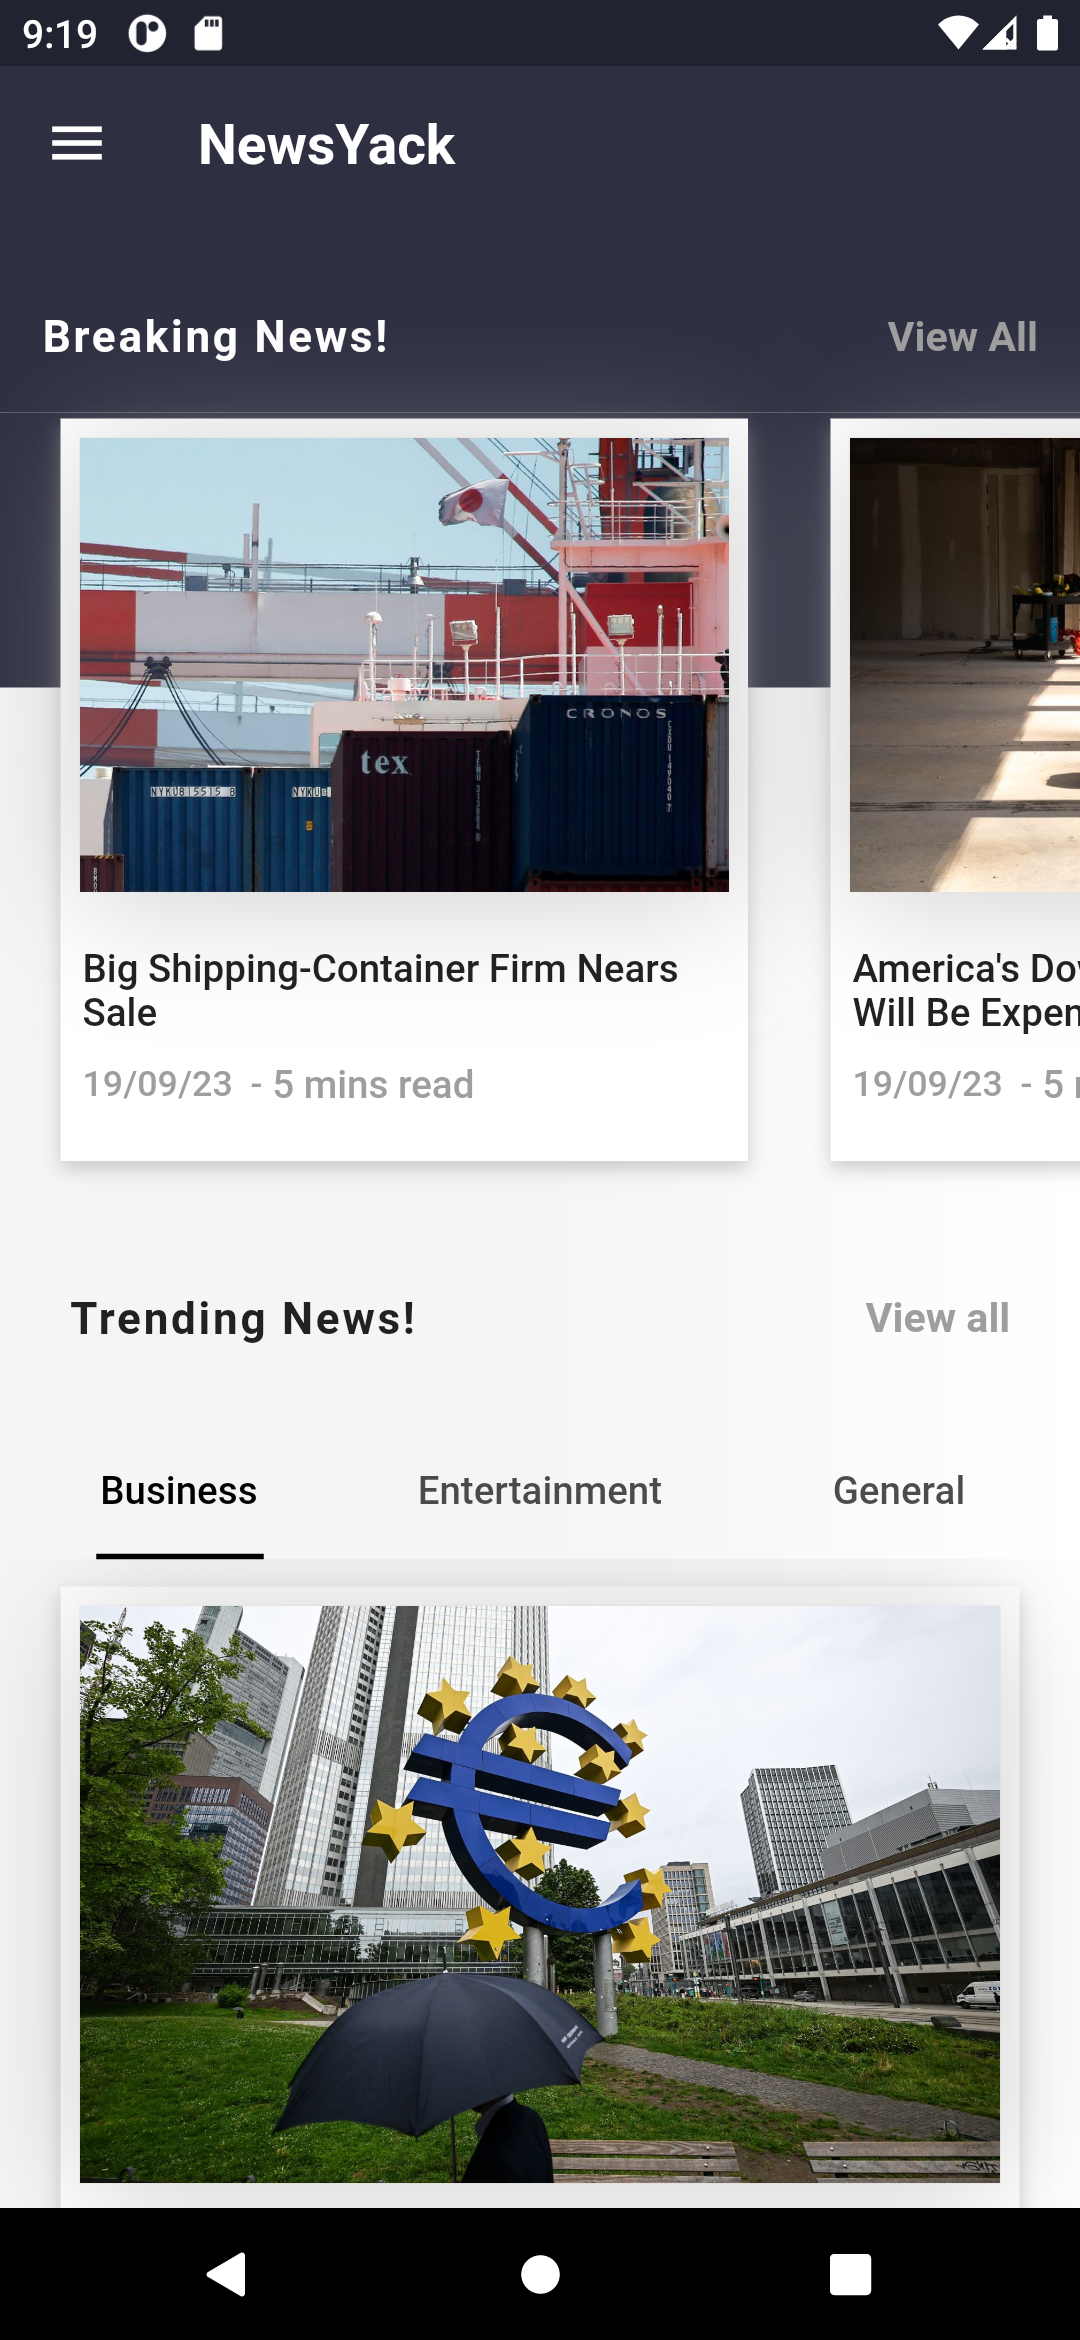
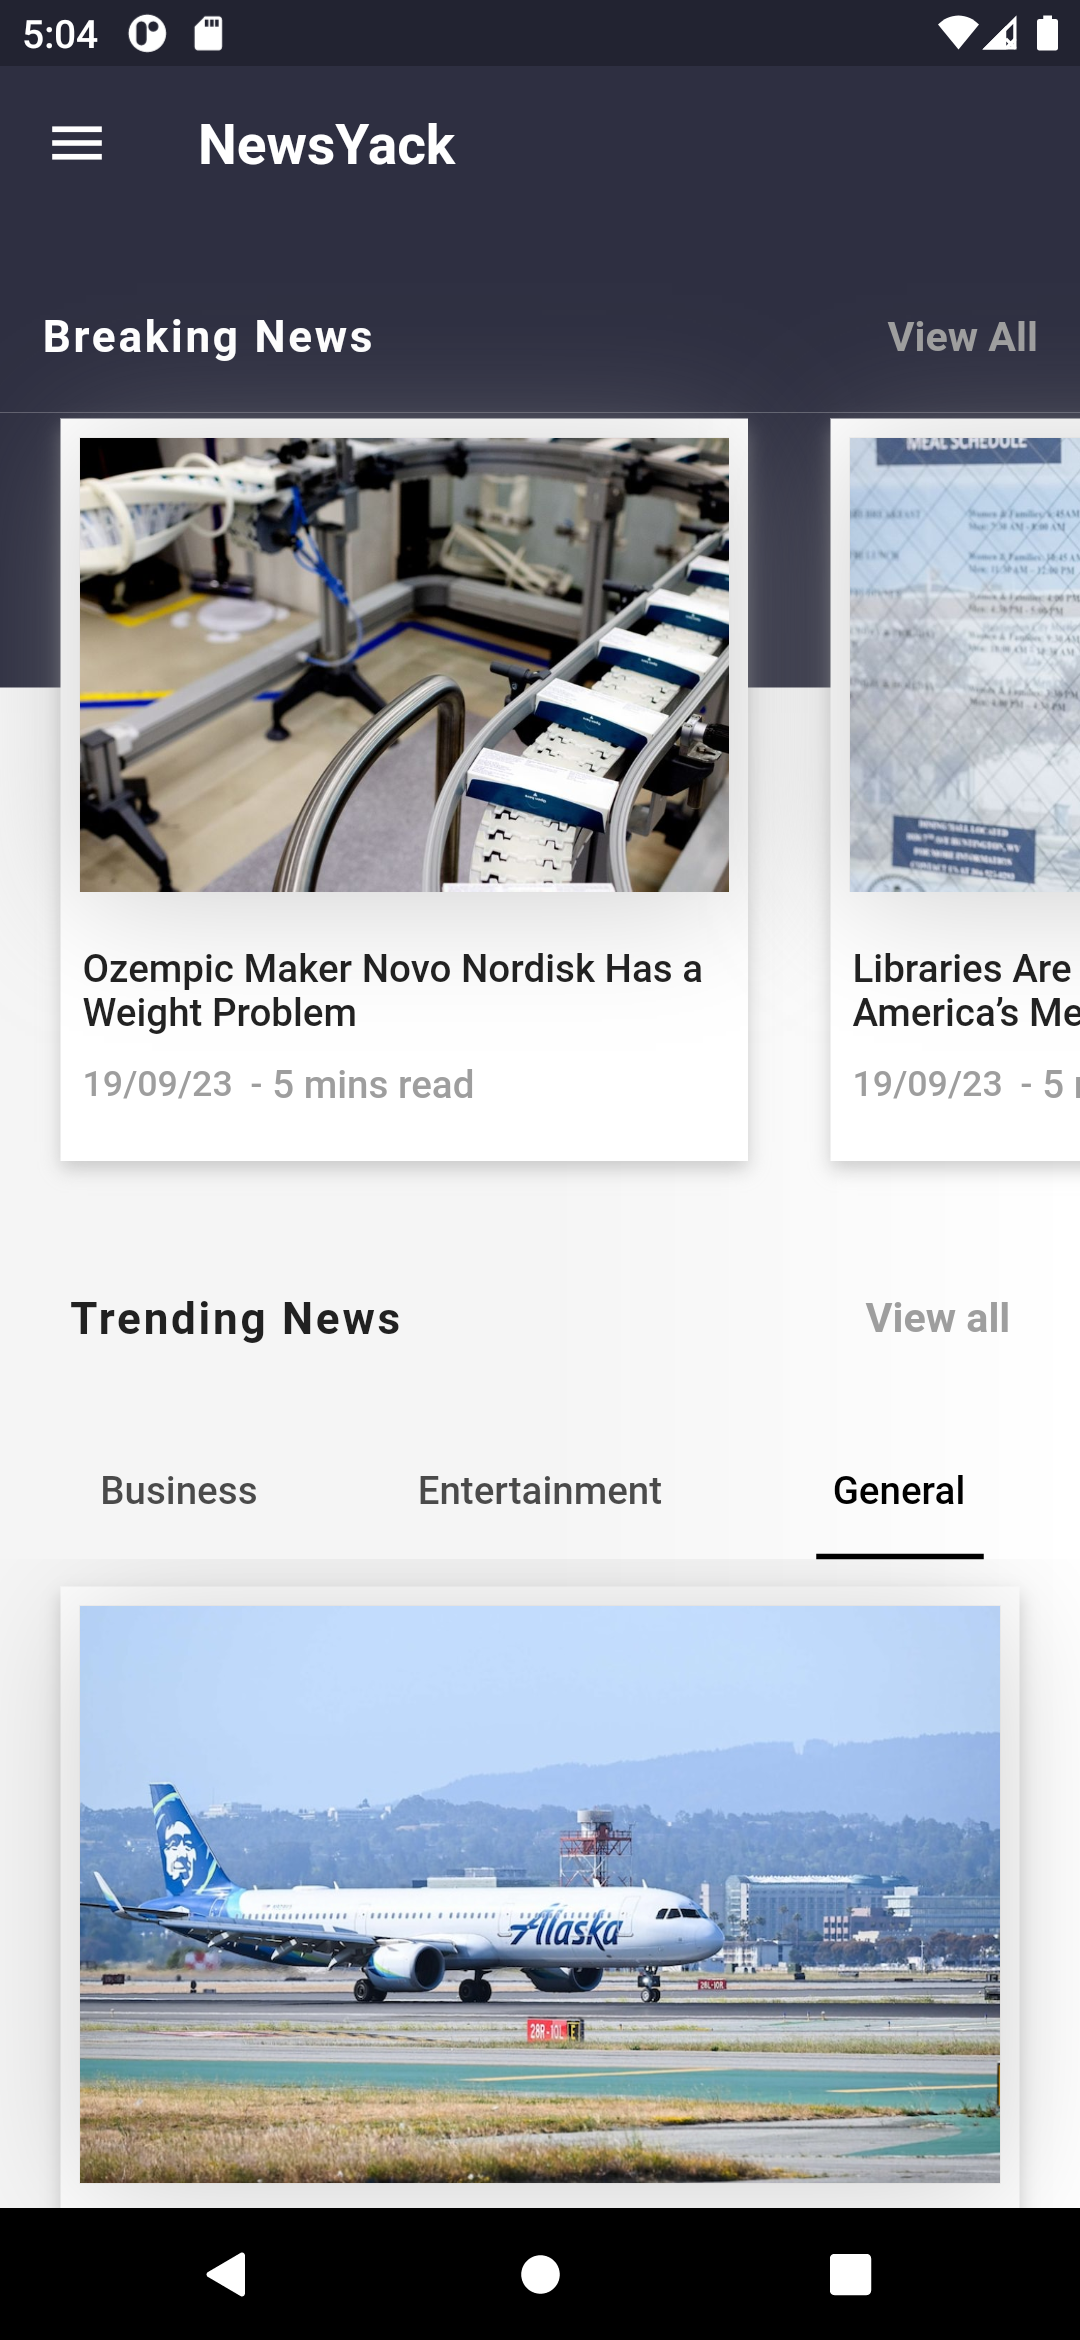
changes

diff --git a/lib/views/home/screens/home_screen.dart b/lib/views/home/screens/home_screen.dart
@@ -165,7 +165,7 @@ class _HomeScreenState extends State<HomeScreen> {
                         mainAxisAlignment: MainAxisAlignment.spaceBetween,
                         children: [
                           const Text(
-                            'Breaking News!',
+                            'Breaking News',
                             style: TextStyle(
                                 fontSize: 16,
                                 color: Colors.white,
@@ -337,7 +337,7 @@ class _HomeScreenState extends State<HomeScreen> {
                     mainAxisAlignment: MainAxisAlignment.spaceBetween,
                     children: [
                       const Text(
-                        'Trending News!',
+                        'Trending News',
                         style: TextStyle(
                             fontSize: 16,
                             fontWeight: FontWeight.w700,
